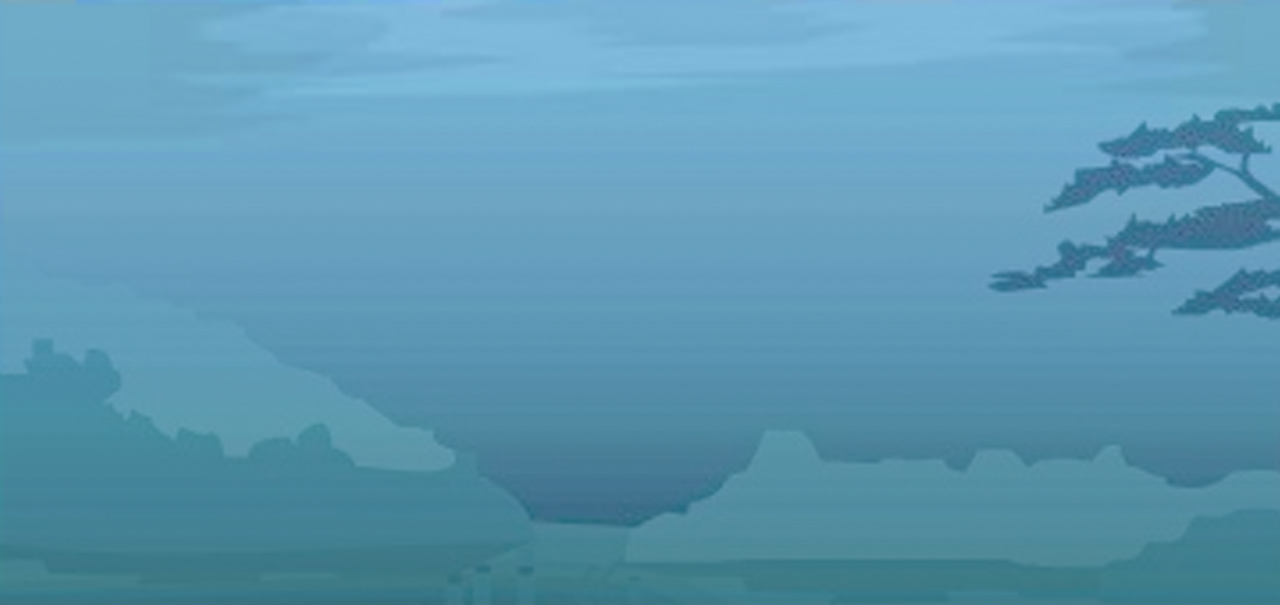
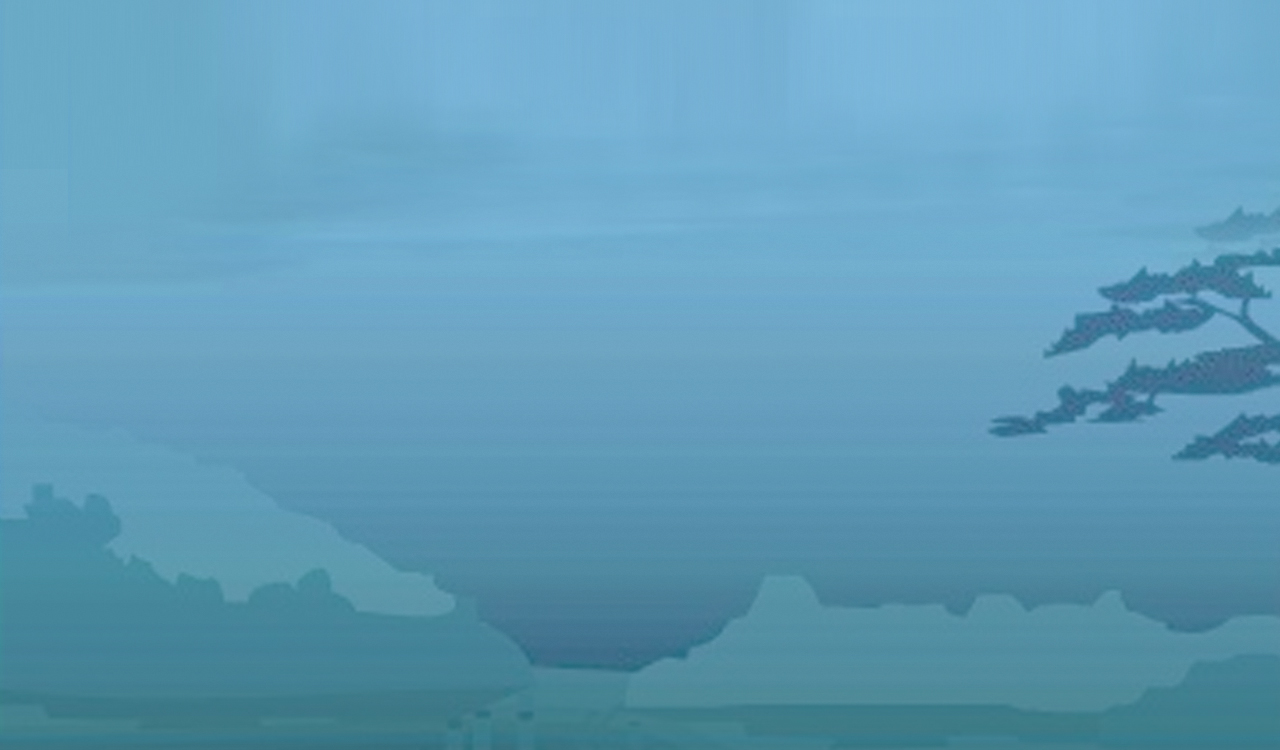
modify

diff --git a/source/themes/js/page.js b/source/themes/js/page.js
@@ -1,4 +1,6 @@
 (function(window){
+    var myScroll;
+
     var unit = {
         isApp: function () {
             var ua = navigator.userAgent,
@@ -97,7 +99,8 @@
                     break;
                 }
 
-                $("#js_"+ type).show();
+                self._appMove(type);
+                // $("#js_"+ type).show();
             }
         },
 
@@ -250,23 +253,86 @@
         setApp: function () {
             var self = this;
 
+            $(".js_mod").css({
+                "width": unit.getScreen().x + "px",
+                "height": unit.getScreen().y + "px"
+            });
+
             self._appMenu();
 
             self._appImages();
         },
 
         _appMenu: function () {
+            var self = this;
             $(".js_menu li").on("click", function () {
                 var type = $(this).data("type");
 
-                if (type == "about") {
-                    $(".js_footer").show();
-                } else {
-                    $(".js_footer").hide();
-                    $(".js_mod").hide();
-                    $("#js_"+type).show();
-                }
+                // if (type == "about") {
+                //     $(".js_footer").show();
+                // } else {
+                //     $(".js_footer").hide();
+                //     // $(".js_mod").hide();
+                //     $("#js_"+type).show();
+                // }
+                $(".js_footer").hide();
+
+                self._appMove(type);
             });
+        },
+
+        _appType: function (type) {
+            var num = 0;
+
+            switch (type) {
+                case "video":
+                    num = 0;
+                break;
+
+                case "app":
+                    num = 1;
+                break;
+
+                case "detail":
+                    num = 2;
+                break;
+
+                case "pdf":
+                    num = 3;
+                break;
+            }
+
+            return num;
+        },
+
+        _appMove: function (type) {
+            var self = this;
+            $tbody.animate({
+                top: -unit.getScreen().y* self._appType(type) + "px"
+            });
+
+            if (type == "pdf") {
+                $(".js_footer").show();
+
+                $("#js_pdf .t_img > img").css({
+                    "height": ($("#js_pdf .t_img").height() - 60)+"px"
+                });
+            }
+
+            if (type == "detail") {
+                myScroll = new IScroll('.js_slide', {
+                    scrollX: true,
+                    scrollY: false,
+                    momentum: false,
+                    snap: true,
+                    snapSpeed: 400,
+                    keyBindings: true,
+                    indicators: {
+                        el: document.getElementById('t_pointer'),
+                        resize: false
+                    }
+                });
+            }
         },
 
         _appImages: function () {
@@ -285,41 +351,4 @@
 
     window.fn = fn;
 
-    
-
-
 })(window);
-
-// $(window).on('scroll', function () {
-//     var $that = $('.top_tab'),
-//         top = $that.offset().top,
-//         stop = $('body').scrollTop();
-
-//     if ((top - stop) <= 60) {
-//         $that.addClass("t_fixed");
-//     } else {
-//         $that.removeClass("t_fixed");
-//     }
-//     console.log(top - stop);
-// });
-
-
-// (function() {
-//     var slide = {
-//         showDom: function () {
-//             var $width = $(document.body).width();
-
-//             $(".js_slide ul li").css({
-//                 "width": $width
-//             });
-//             $(".js_slide ul").css({
-//                 "display": "-webkit-box"
-//             });
-//         }
-//     };
-
-//     slide.showDom();
-//     $(window).resize(function () {
-//         slide.showDom();
-//     });
-// })();

diff --git a/source/themes/scss/view_app.scss b/source/themes/scss/view_app.scss
@@ -126,13 +126,22 @@
         display: block;
     }
 
+    .mod_tbody {
+        position: absolute;
+        left: 0;
+        top: 0;
+
+        width: 100%;
+    }
+
     .mod_video,
     .mod_app,
     .mod_detail,
     .mod_pdf,
     .mod_about,
     .mod_msg {
-        display: none;
+        display: block;
+        position: relative;
     }
 
     .mod_wrapper {
@@ -386,14 +395,19 @@
             .t_img {
                 @include box-flex();
                 text-align: center;
+                padding-bottom: 60px;
 
-                @include box();
-                @include box-orient();
+                // @include box();
+                // @include box-orient();
                 img {
-                    width: 230px;
+                    // @include box-flex();
+                    display: block;
+                    // width: 200px;
+                    // width: auto;
                     margin: 0 auto;
                 }
                 div {
+                    height: 60px;
                     text-align: left;
                     a {
                         display: block;
@@ -401,6 +415,7 @@
                         padding-left: 10px;
                         img {
                             width: 25px;
+                            display: inline-block;
                             margin-right: 5px;
                             vertical-align: middle;
                         }

diff --git a/source/布局.html b/source/布局.html
@@ -174,19 +174,20 @@
     <script type="text/javascript" src="themes/js/page.js"></script>
     <script type="text/javascript">
         fn.init();
+
         
-        var myScroll = new IScroll('.js_slide', {
-            scrollX: true,
-            scrollY: false,
-            momentum: false,
-            snap: true,
-            snapSpeed: 400,
-            keyBindings: true,
-            indicators: {
-                el: document.getElementById('t_pointer'),
-                resize: false
-            }
-        });
+        // var myScroll = new IScroll('.js_slide', {
+        //     scrollX: true,
+        //     scrollY: false,
+        //     momentum: false,
+        //     snap: true,
+        //     snapSpeed: 400,
+        //     keyBindings: true,
+        //     indicators: {
+        //         el: document.getElementById('t_pointer'),
+        //         resize: false
+        //     }
+        // });
 
     </script>
 </body>

diff --git a/source/用户反馈.html b/source/用户反馈.html
@@ -25,10 +25,10 @@
         </div>
 
 
-        <div id="js_tbody" class="js_mod mod_tbody">
+        <div id="js_tbody" class="mod_tbody">
             
             <!--用户反馈-->
-            <div id="js_msg" class="mod_msg">
+            <div id="js_msg" class="js_mod mod_msg">
                 <div class="mod_wrapper">
                     <div class="t_text">
                         欢迎反馈问题，我们会认真查阅您反馈的每一个问题，并尽快给您答复，在这里您可以提出遇到  的问题，也可以发表自己的建议和想法。    

diff --git a/source/关于我们.html b/source/关于我们.html
@@ -24,9 +24,9 @@
             </div>
         </div>
 
-        <div id="js_tbody" class="js_mod mod_tbody">
+        <div id="js_tbody" class="mod_tbody">
             <!--关于我们-->
-            <div id="js_about" class="mod_about">
+            <div id="js_about" class="js_mod mod_about">
                 <div class="mod_wrapper">
                     <div class="t_text">
                         <h3>关于我们</h3>

diff --git a/source/themes/scss/view_web.scss b/source/themes/scss/view_web.scss
@@ -166,7 +166,7 @@
     }
 
     .mod_video {
-        background: url(images/bg_web_video.jpg) no-repeat 0 bottom #77b1d6;
+        background: url(images/bg_web_video.jpg) no-repeat 0 bottom fixed #76b1d3;
         background-size: 100% auto;
     }
     .mod_app {
